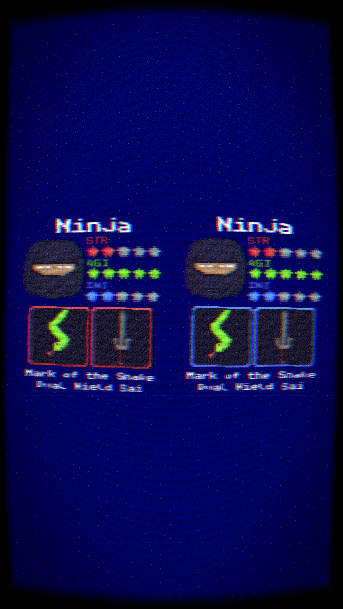
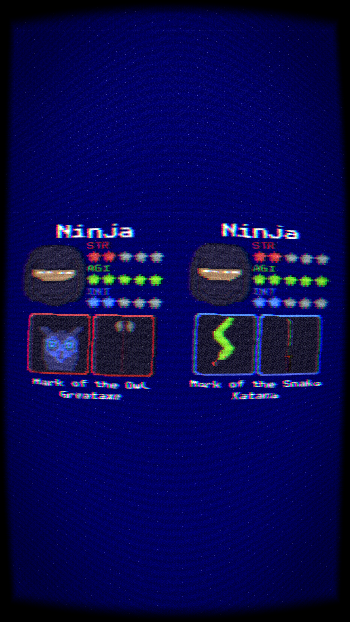
wip

diff --git a/Main.cs b/Main.cs
@@ -3,6 +3,7 @@ using System;
 using RandomBattles.Fighters;
 using System.Threading.Tasks;
 
+namespace RandomBattles;
 public partial class Main : Node2D
 {
   [Export] public MeshInstance2D DissolveMesh;
@@ -11,6 +12,7 @@ public partial class Main : Node2D
   [Export] public FighterStatsUI FighterStatsUIB;
   [Export] public Control FighterStatsUIContainer;
   [Export] public Vector2 FighterStatsUIContainerFinalPos;
+  [Export] public CanvasLayer UI;
 
   private Fighter _fighterA;
   private Fighter _fighterB;
@@ -31,97 +33,99 @@ public partial class Main : Node2D
 
   public override async void _EnterTree()
   {
-    GetTree().Paused = true;
-    FighterStatsUIContainer.Modulate = Colors.Transparent;
-    _statContainerTween = FighterStatsUIContainer.CreateTween();
-    _statContainerTween.TweenProperty(FighterStatsUIContainer, "modulate", Colors.White, 1);
+	GetTree().Paused = true;
+	FighterStatsUIContainer.Modulate = Colors.Transparent;
+	_statContainerTween = FighterStatsUIContainer.CreateTween();
+	_statContainerTween.TweenProperty(FighterStatsUIContainer, "modulate", Colors.White, 1);
+
+  UI.Show();
 
 
-    if (Random)
-    {
-      FighterStatsUIA.RandomFighter = true;
-      FighterStatsUIB.RandomFighter = true;
-      FighterStatsUIA.SpinDone += () => OnSpinDone(Team.A);
-      FighterStatsUIB.SpinDone += () => OnSpinDone(Team.B);
-    }
-    else
-    {
-      await ToSignal(GetTree().CreateTimer(_startDelay), SceneTreeTimer.SignalName.Timeout);
-      StartFight();
-    }
+	if (Random)
+	{
+	  FighterStatsUIA.RandomFighter = true;
+	  FighterStatsUIB.RandomFighter = true;
+	  FighterStatsUIA.SpinDone += () => OnSpinDone(Team.A);
+	  FighterStatsUIB.SpinDone += () => OnSpinDone(Team.B);
+	}
+	else
+	{
+	  await ToSignal(GetTree().CreateTimer(_startDelay), SceneTreeTimer.SignalName.Timeout);
+	  StartFight();
+	}
   }
 
   public override void _Ready()
   {
-    _fighterA = (Fighter)GetTree().GetFirstNodeInGroup("Team A");
-    _fighterB = (Fighter)GetTree().GetFirstNodeInGroup("Team B");
-    _fighterA.Died += OnRoundEnd;
-    _fighterB.Died += OnRoundEnd;
+	_fighterA = (Fighter)GetTree().GetFirstNodeInGroup("Team A");
+	_fighterB = (Fighter)GetTree().GetFirstNodeInGroup("Team B");
+	_fighterA.Died += OnRoundEnd;
+	_fighterB.Died += OnRoundEnd;
   }
 
   private async void OnRoundEnd()
   {
-    await ToSignal(GetTree().CreateTimer(2), SceneTreeTimer.SignalName.Timeout);
-    FighterStatsUIContainer.ZIndex = -1;
-    StartDissolveTransition(0, 1);
-    await ToSignal(this, SignalName.Finished);
-    GetTree().Quit();
+	await ToSignal(GetTree().CreateTimer(2), SceneTreeTimer.SignalName.Timeout);
+	FighterStatsUIContainer.ZIndex = -1;
+	StartDissolveTransition(0, 1);
+	await ToSignal(this, SignalName.Finished);
+	GetTree().Quit();
   }
 
   private async void StartFight()
   {
-    TakeScreenshot(ScreenshotPath);
-    StartDissolveTransition(1, 0);
-    await ToSignal(GetTree().CreateTimer(_startDelay), SceneTreeTimer.SignalName.Timeout);
-    SetFighterStatsUITextVisiblity(false);
-    MoveFighterUITop();
-    FighterStatsUIA.Active = true;
-    FighterStatsUIB.Active = true;
-    GetTree().Paused = false;
+	TakeScreenshot(ScreenshotPath);
+	StartDissolveTransition(1, 0);
+	await ToSignal(GetTree().CreateTimer(_startDelay), SceneTreeTimer.SignalName.Timeout);
+	SetFighterStatsUITextVisiblity(false);
+	MoveFighterUITop();
+	FighterStatsUIA.Active = true;
+	FighterStatsUIB.Active = true;
+	GetTree().Paused = false;
   }
 
   private void SetFighterStatsUITextVisiblity(bool value)
   {
-    FighterStatsUIA.SetTextVisibility(value);
-    FighterStatsUIB.SetTextVisibility(value);
+	FighterStatsUIA.SetTextVisibility(value);
+	FighterStatsUIB.SetTextVisibility(value);
   }
 
   private async void OnSpinDone(Team team)
   {
-    if (team == Team.A) _teamASpinDone = true;
-    else _teamBSpinDone = true;
+	if (team == Team.A) _teamASpinDone = true;
+	else _teamBSpinDone = true;
 
-    if (_teamASpinDone && _teamBSpinDone)
-    {
-      GD.Print("Spin done!");
-      StartFight();
-    }
+	if (_teamASpinDone && _teamBSpinDone)
+	{
+	  GD.Print("Spin done!");
+	  StartFight();
+	}
   }
 
   private void MoveFighterUITop()
   {
-    Tween.TransitionType transType = Tween.TransitionType.Circ;
-    Tween.EaseType easeType = Tween.EaseType.InOut;
-    Tween tween = CreateTween().SetEase(easeType).SetTrans(transType);
-    tween.TweenProperty(FighterStatsUIContainer, "global_position:y", FighterStatsUIContainerFinalPos.Y, 1);
+	Tween.TransitionType transType = Tween.TransitionType.Circ;
+	Tween.EaseType easeType = Tween.EaseType.InOut;
+	Tween tween = CreateTween().SetEase(easeType).SetTrans(transType);
+	tween.TweenProperty(FighterStatsUIContainer, "global_position:y", FighterStatsUIContainerFinalPos.Y, 1);
 
   }
 
   private async void StartDissolveTransition(float from, float to)
   {
-    if (IsInstanceValid(_dissolveTween))
-    {
-      _dissolveTween.Kill();
-    }
-    _dissolveTween = DissolveMesh.CreateTween();
-    _dissolveTween.TweenMethod(Callable.From<float>(SetDissolvePercentage), from, to, TransitionDuration);
-    await ToSignal(_dissolveTween, Tween.SignalName.Finished);
-    EmitSignal(SignalName.Finished);
+	if (IsInstanceValid(_dissolveTween))
+	{
+	  _dissolveTween.Kill();
+	}
+	_dissolveTween = DissolveMesh.CreateTween();
+	_dissolveTween.TweenMethod(Callable.From<float>(SetDissolvePercentage), from, to, TransitionDuration);
+	await ToSignal(_dissolveTween, Tween.SignalName.Finished);
+	EmitSignal(SignalName.Finished);
   }
 
   private void SetDissolvePercentage(float percentage)
   {
-    BurnShader.SetShaderParameter("percentage", percentage);
+	BurnShader.SetShaderParameter("percentage", percentage);
   }
 
   // Called every frame. 'delta' is the elapsed time since the previous frame.
@@ -131,7 +135,7 @@ public partial class Main : Node2D
 
   private void TakeScreenshot(string savePath)
   {
-    Image image = GetViewport().GetTexture().GetImage();
-    image.SavePng(savePath);
+	Image image = GetViewport().GetTexture().GetImage();
+	image.SavePng(savePath);
   }
 }

diff --git a/Fighters/Weapon.cs b/Fighters/Weapon.cs
@@ -51,6 +51,8 @@ public partial class Weapon : Node2D
 
   public override void _Ready()
   {
+    ToggleHitBox(false);
+
     _parentFighter = GetParent<Fighter>();
     InitSounds();
 
